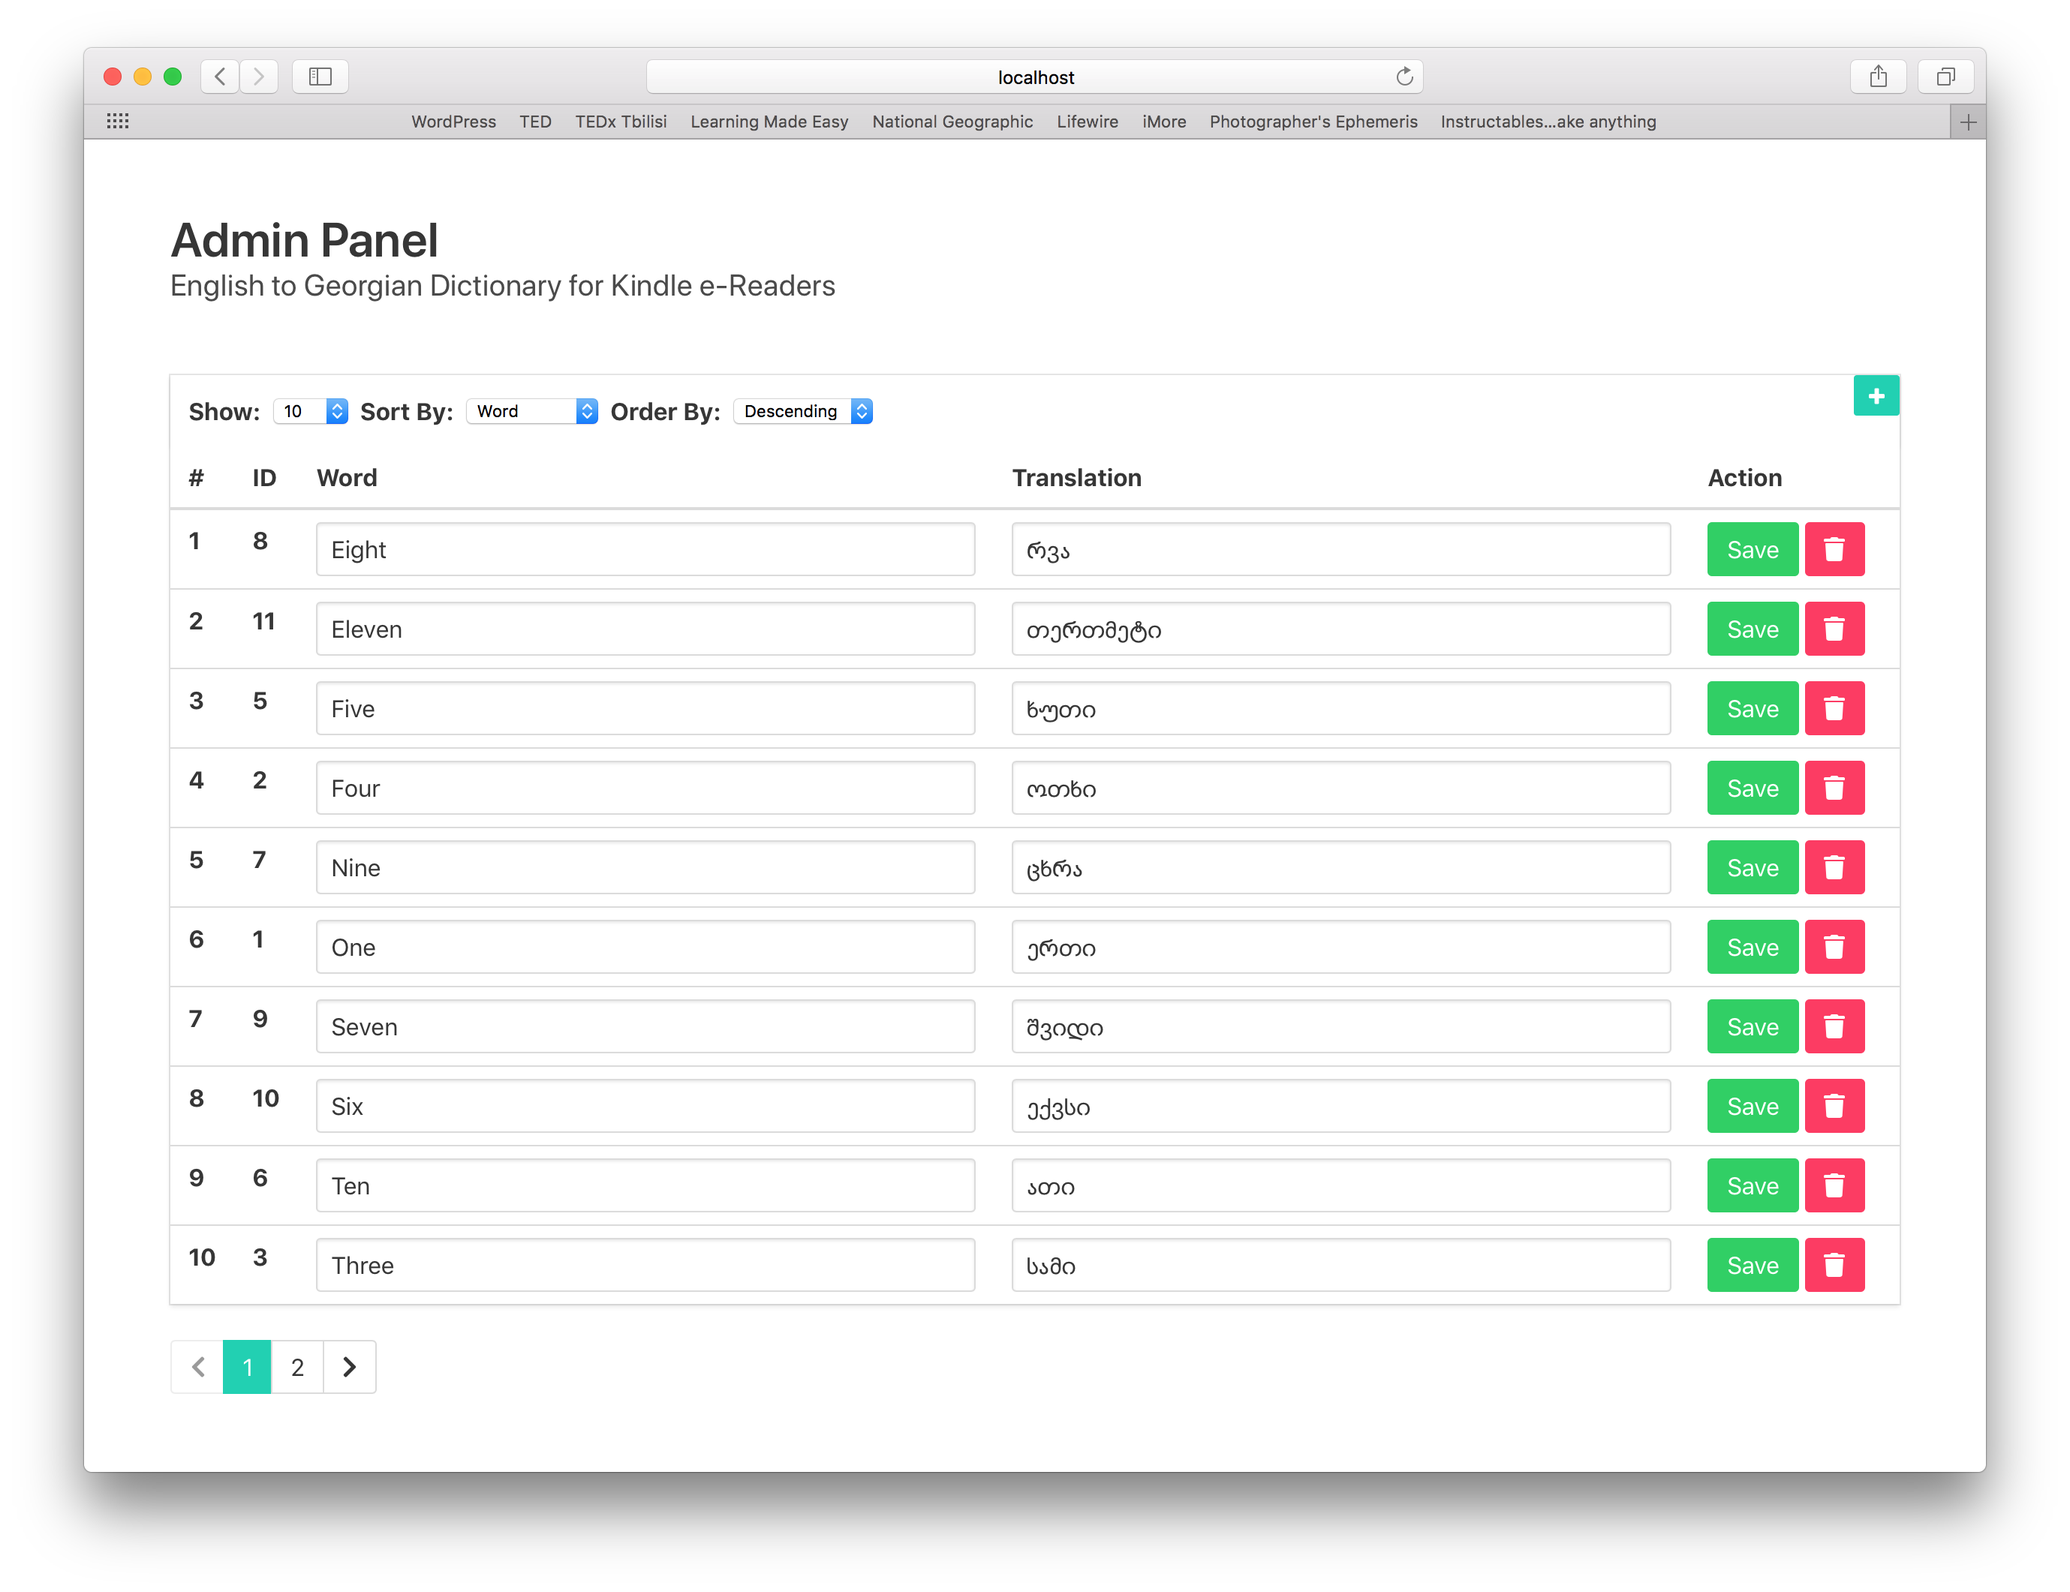
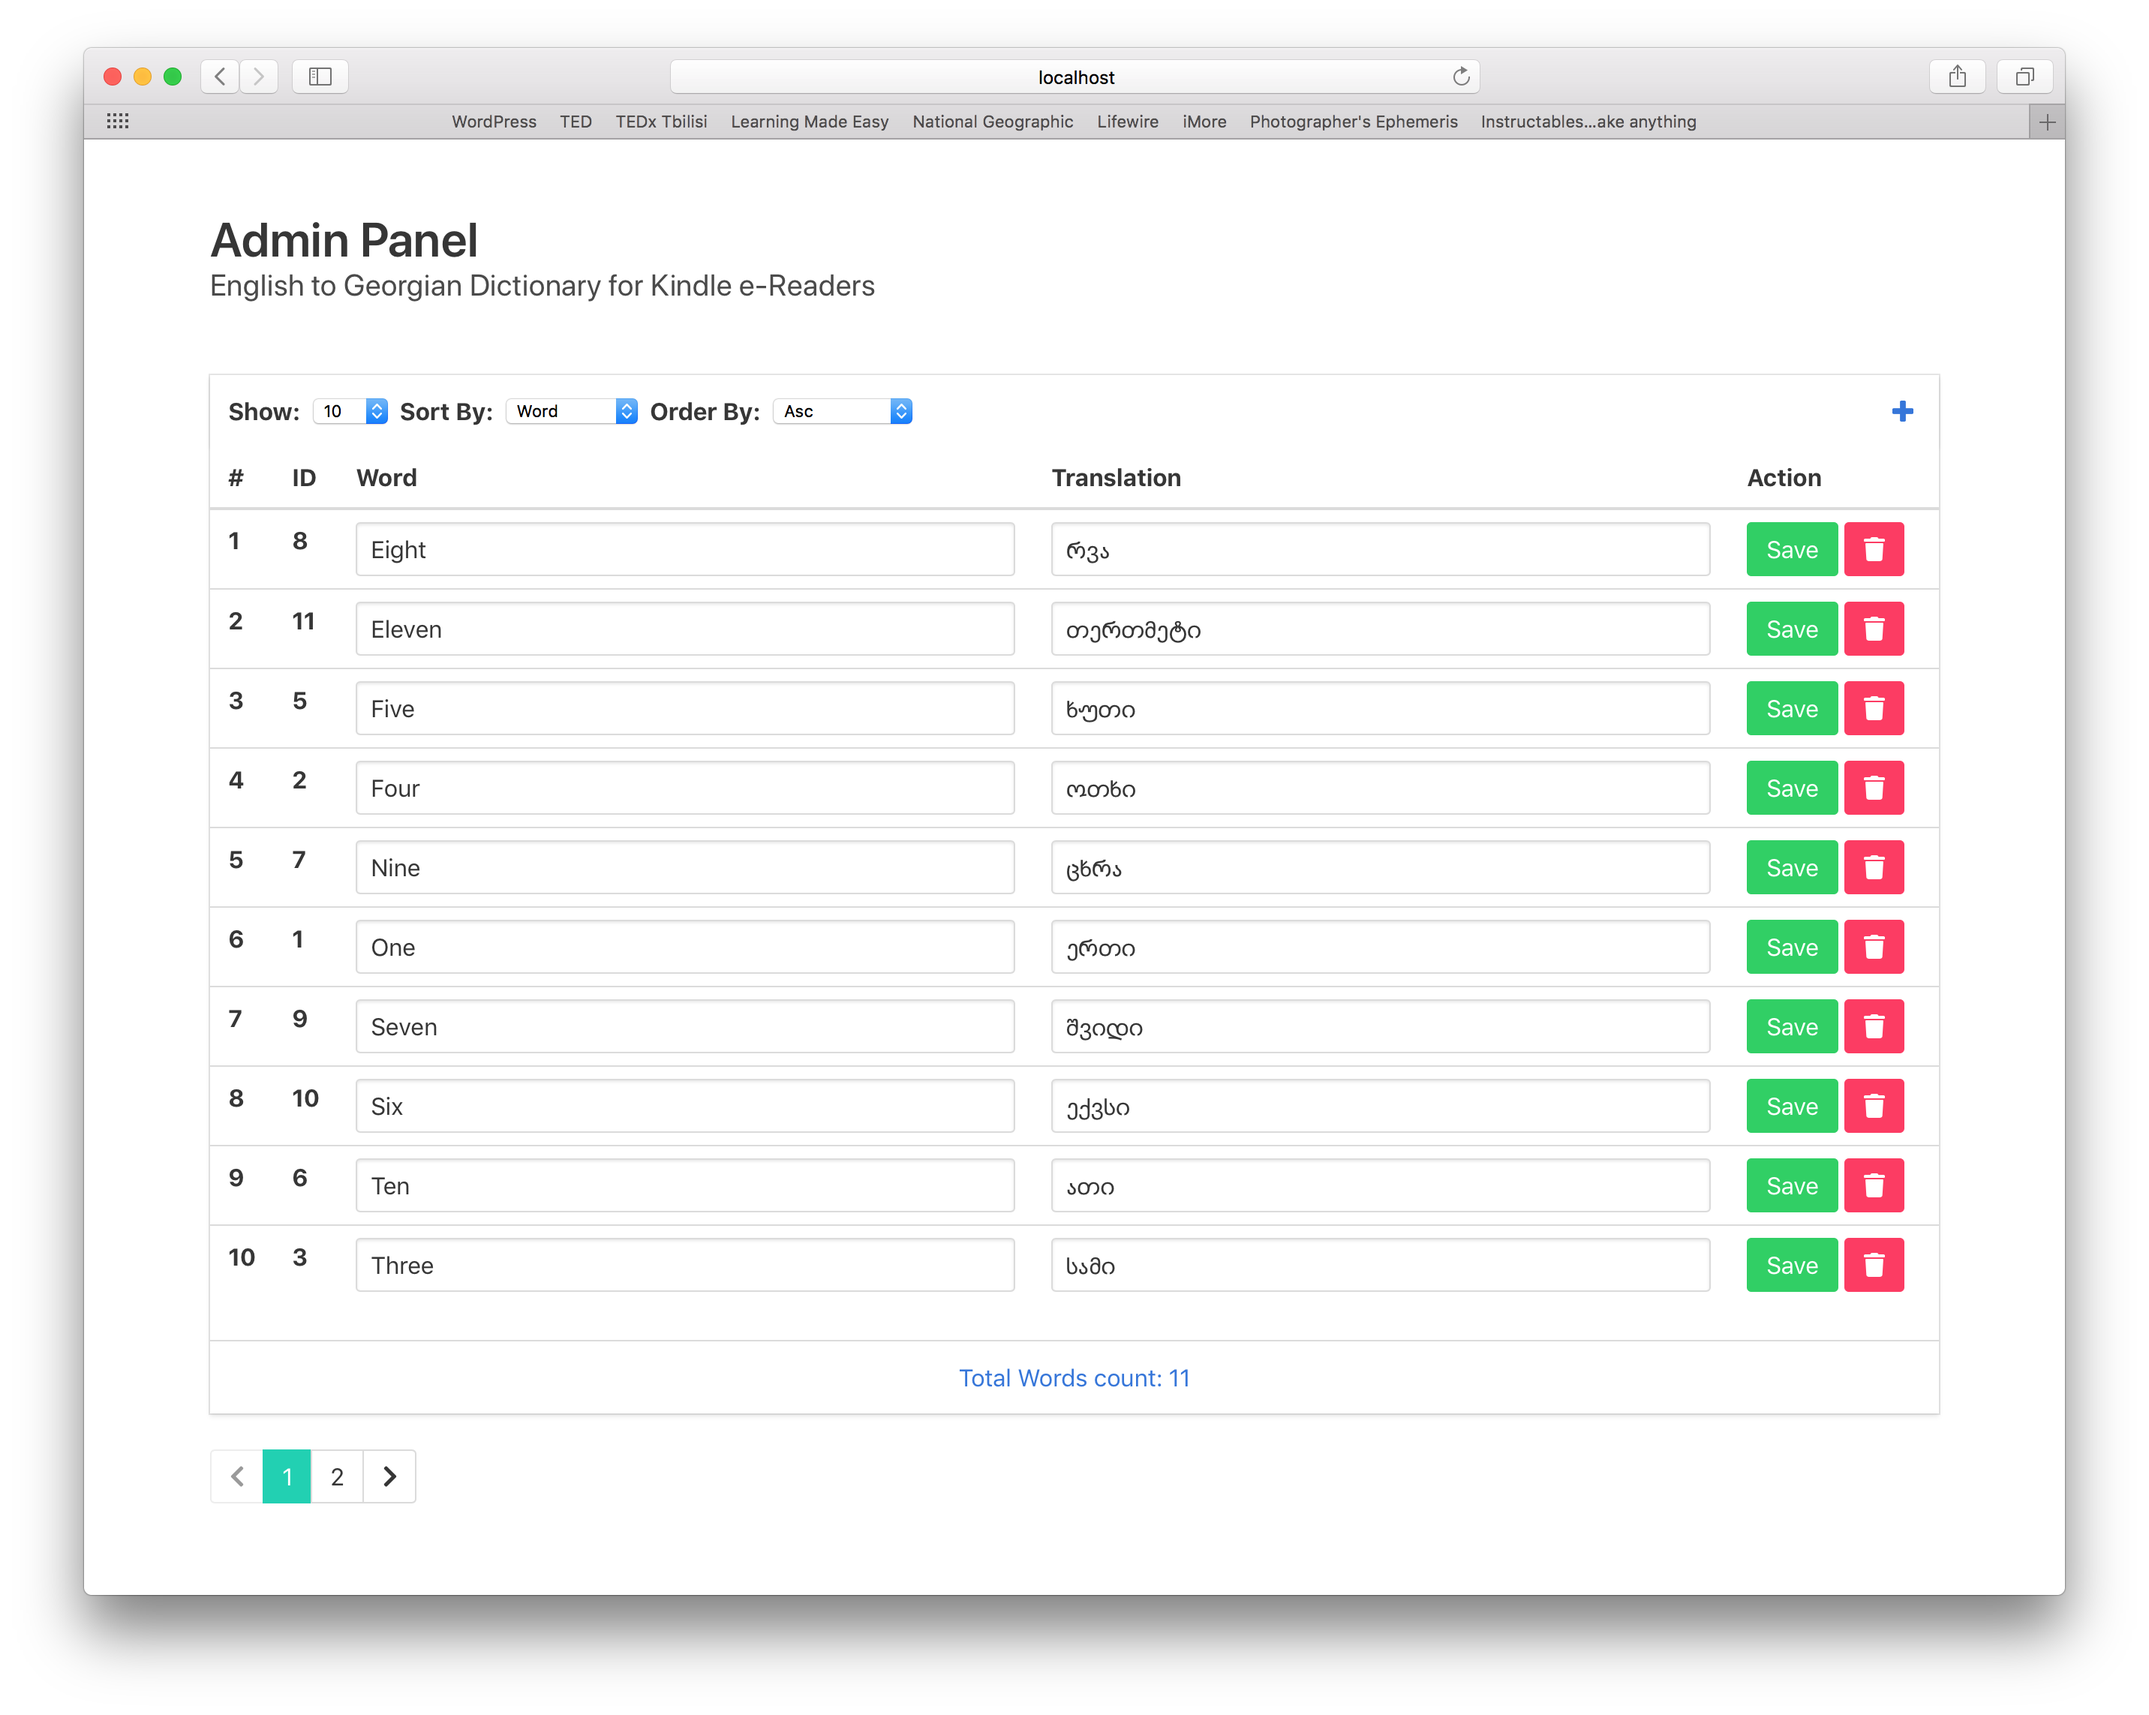
UI Refinements

diff --git a/admin/index.html b/admin/index.html
@@ -44,13 +44,11 @@
                             <option value="desc">Descending</option>
                         </select>
                     </p>
-                    <div class="columns">
-                        <div class="column">
-                            <button class="button is-primary is-small" @click="add()">
-                                <i class="fa fa-plus" aria-hidden="true"></i>
-                            </button>
-                        </div>
-                    </div>
+                    <a href="#" class="card-header-icon" aria-label="more options" @click="add()">
+                        <span class="icon">
+                            <i class="fa fa-plus" aria-hidden="true"></i>
+                        </span>
+                    </a>
                 </header>
                 <div class="content">
                     <table class="table">
@@ -81,7 +79,13 @@
                         </tbody>
                     </table>
                 </div>
+                <footer class="card-footer">
+                    <a href="#" class="card-footer-item">
+                        <span>Total Words count: {{ count }}</span>
+                    </a>
+                </footer>
             </div>
+            <br>
             <div class="field has-addons">
                 <p class="control">
                     <button :disabled="page<1" class="button" @click="goTo(page)">
